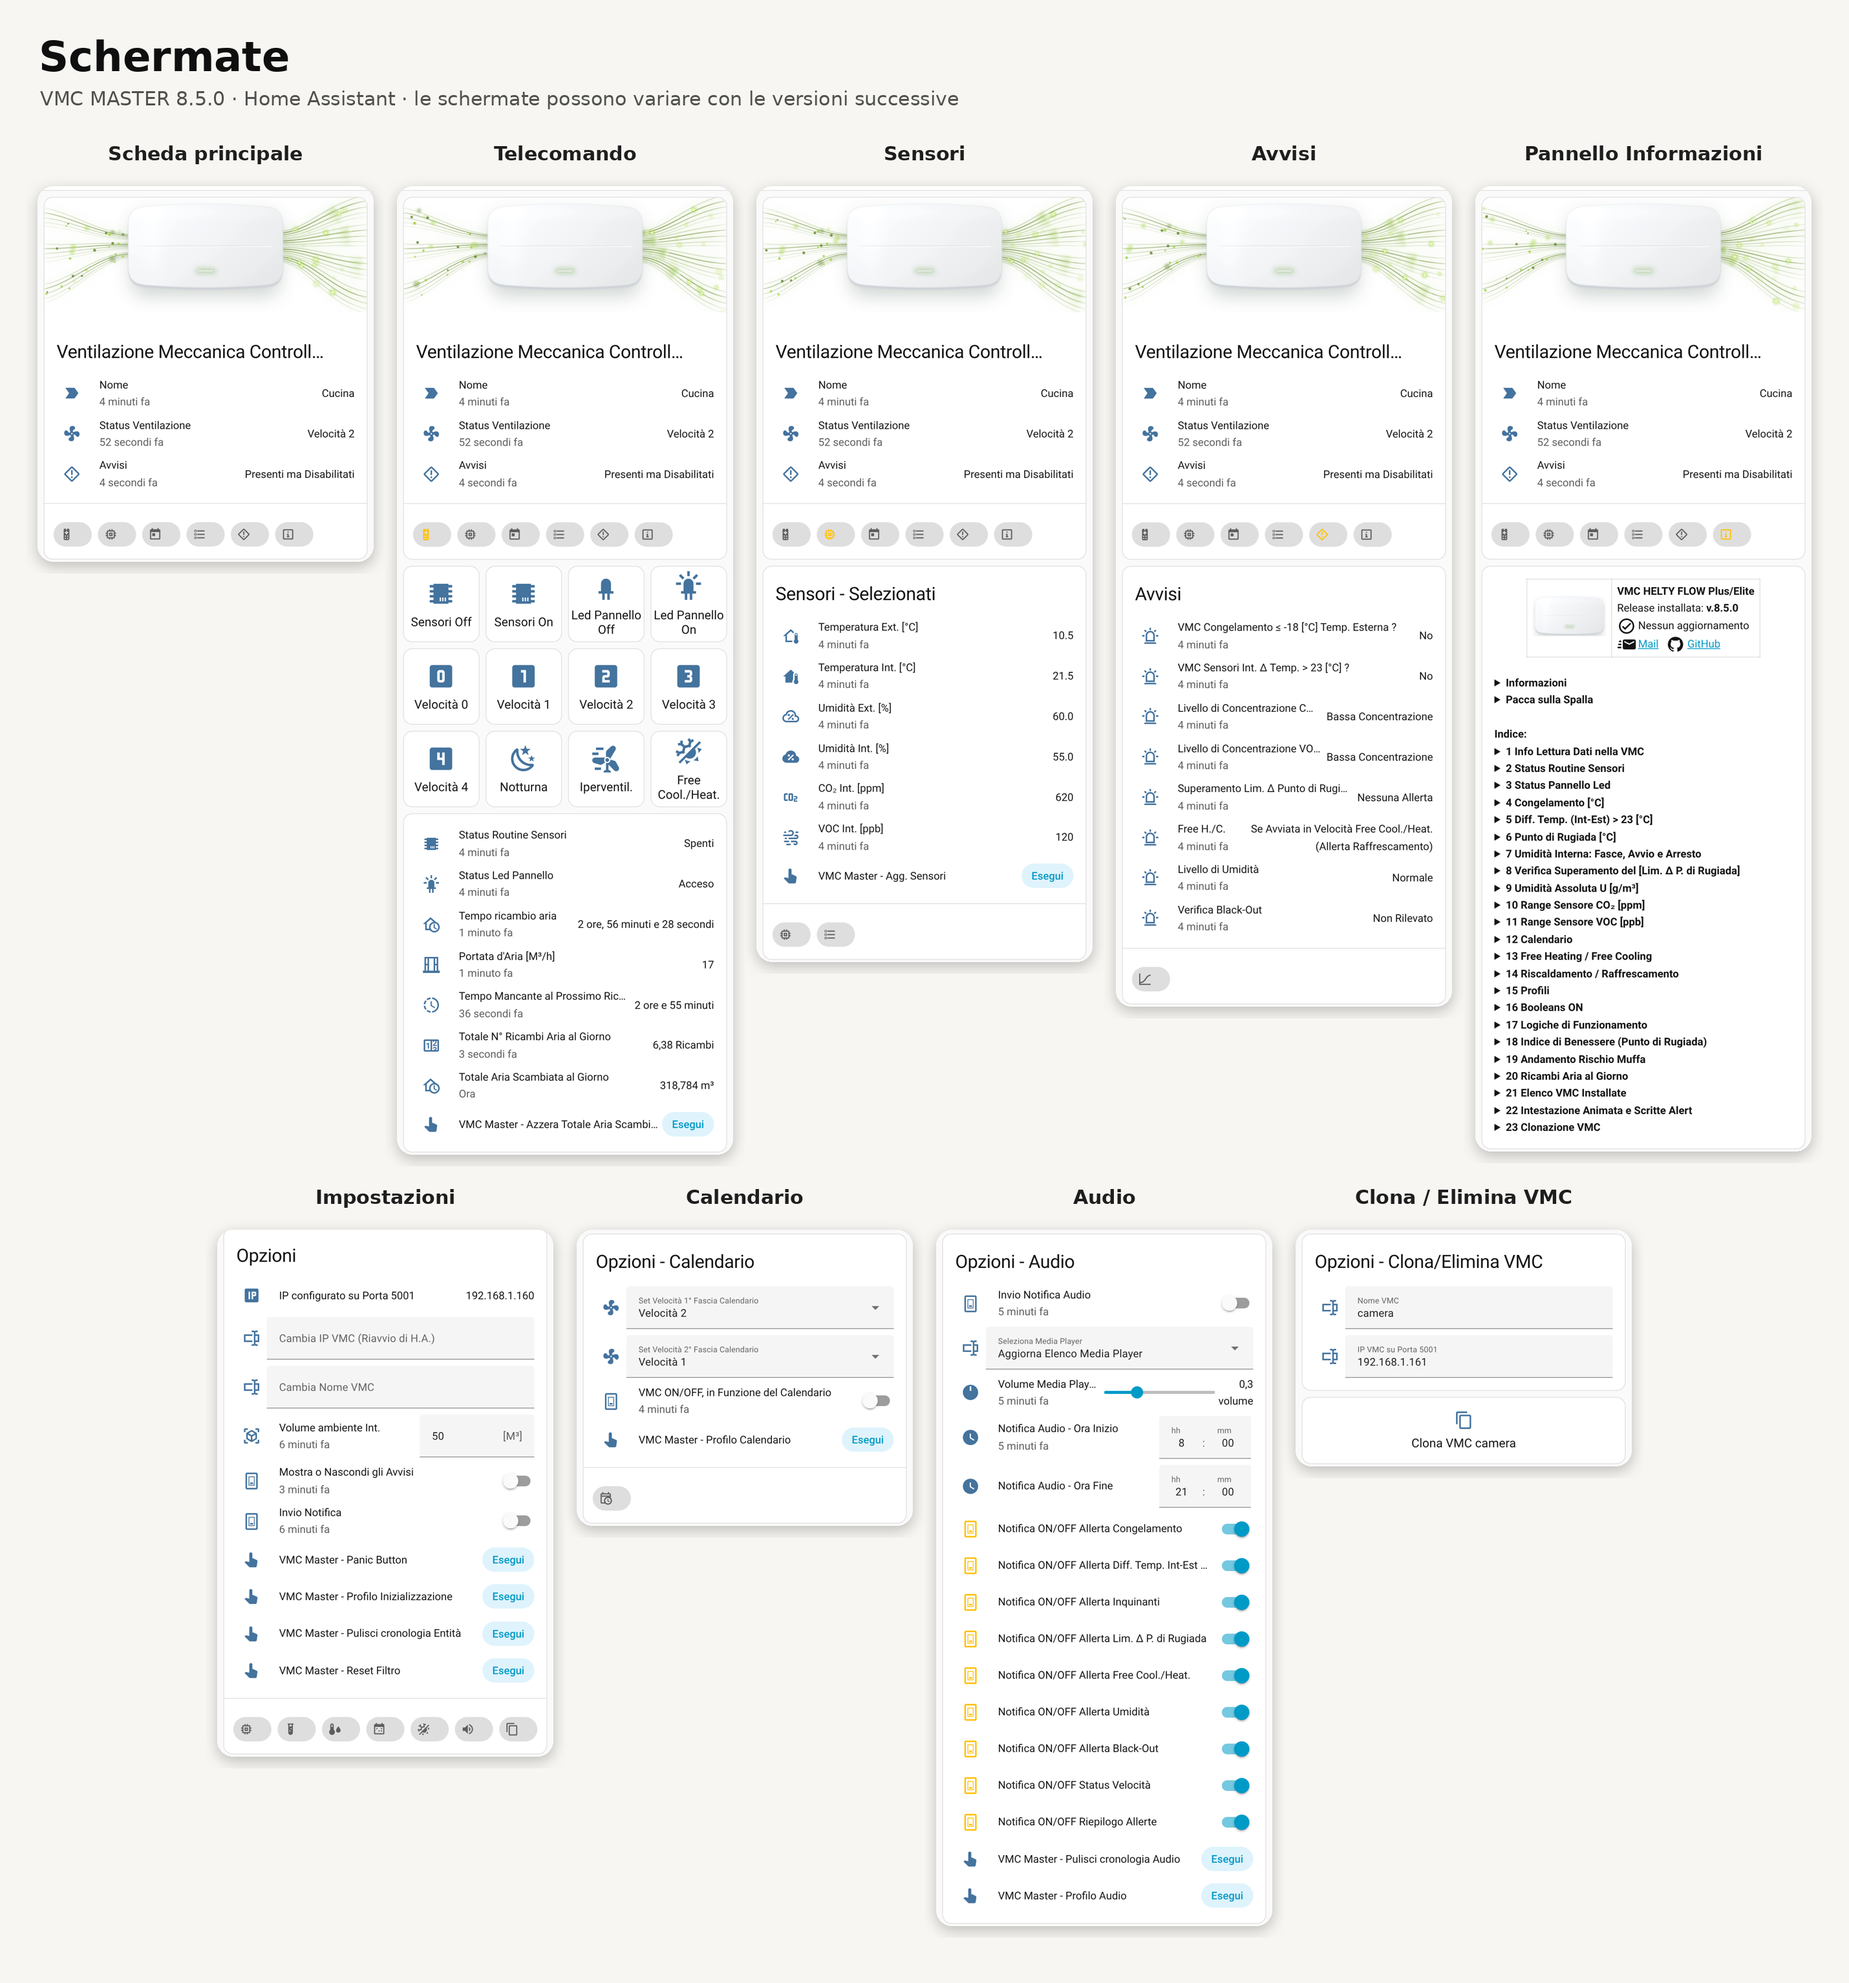
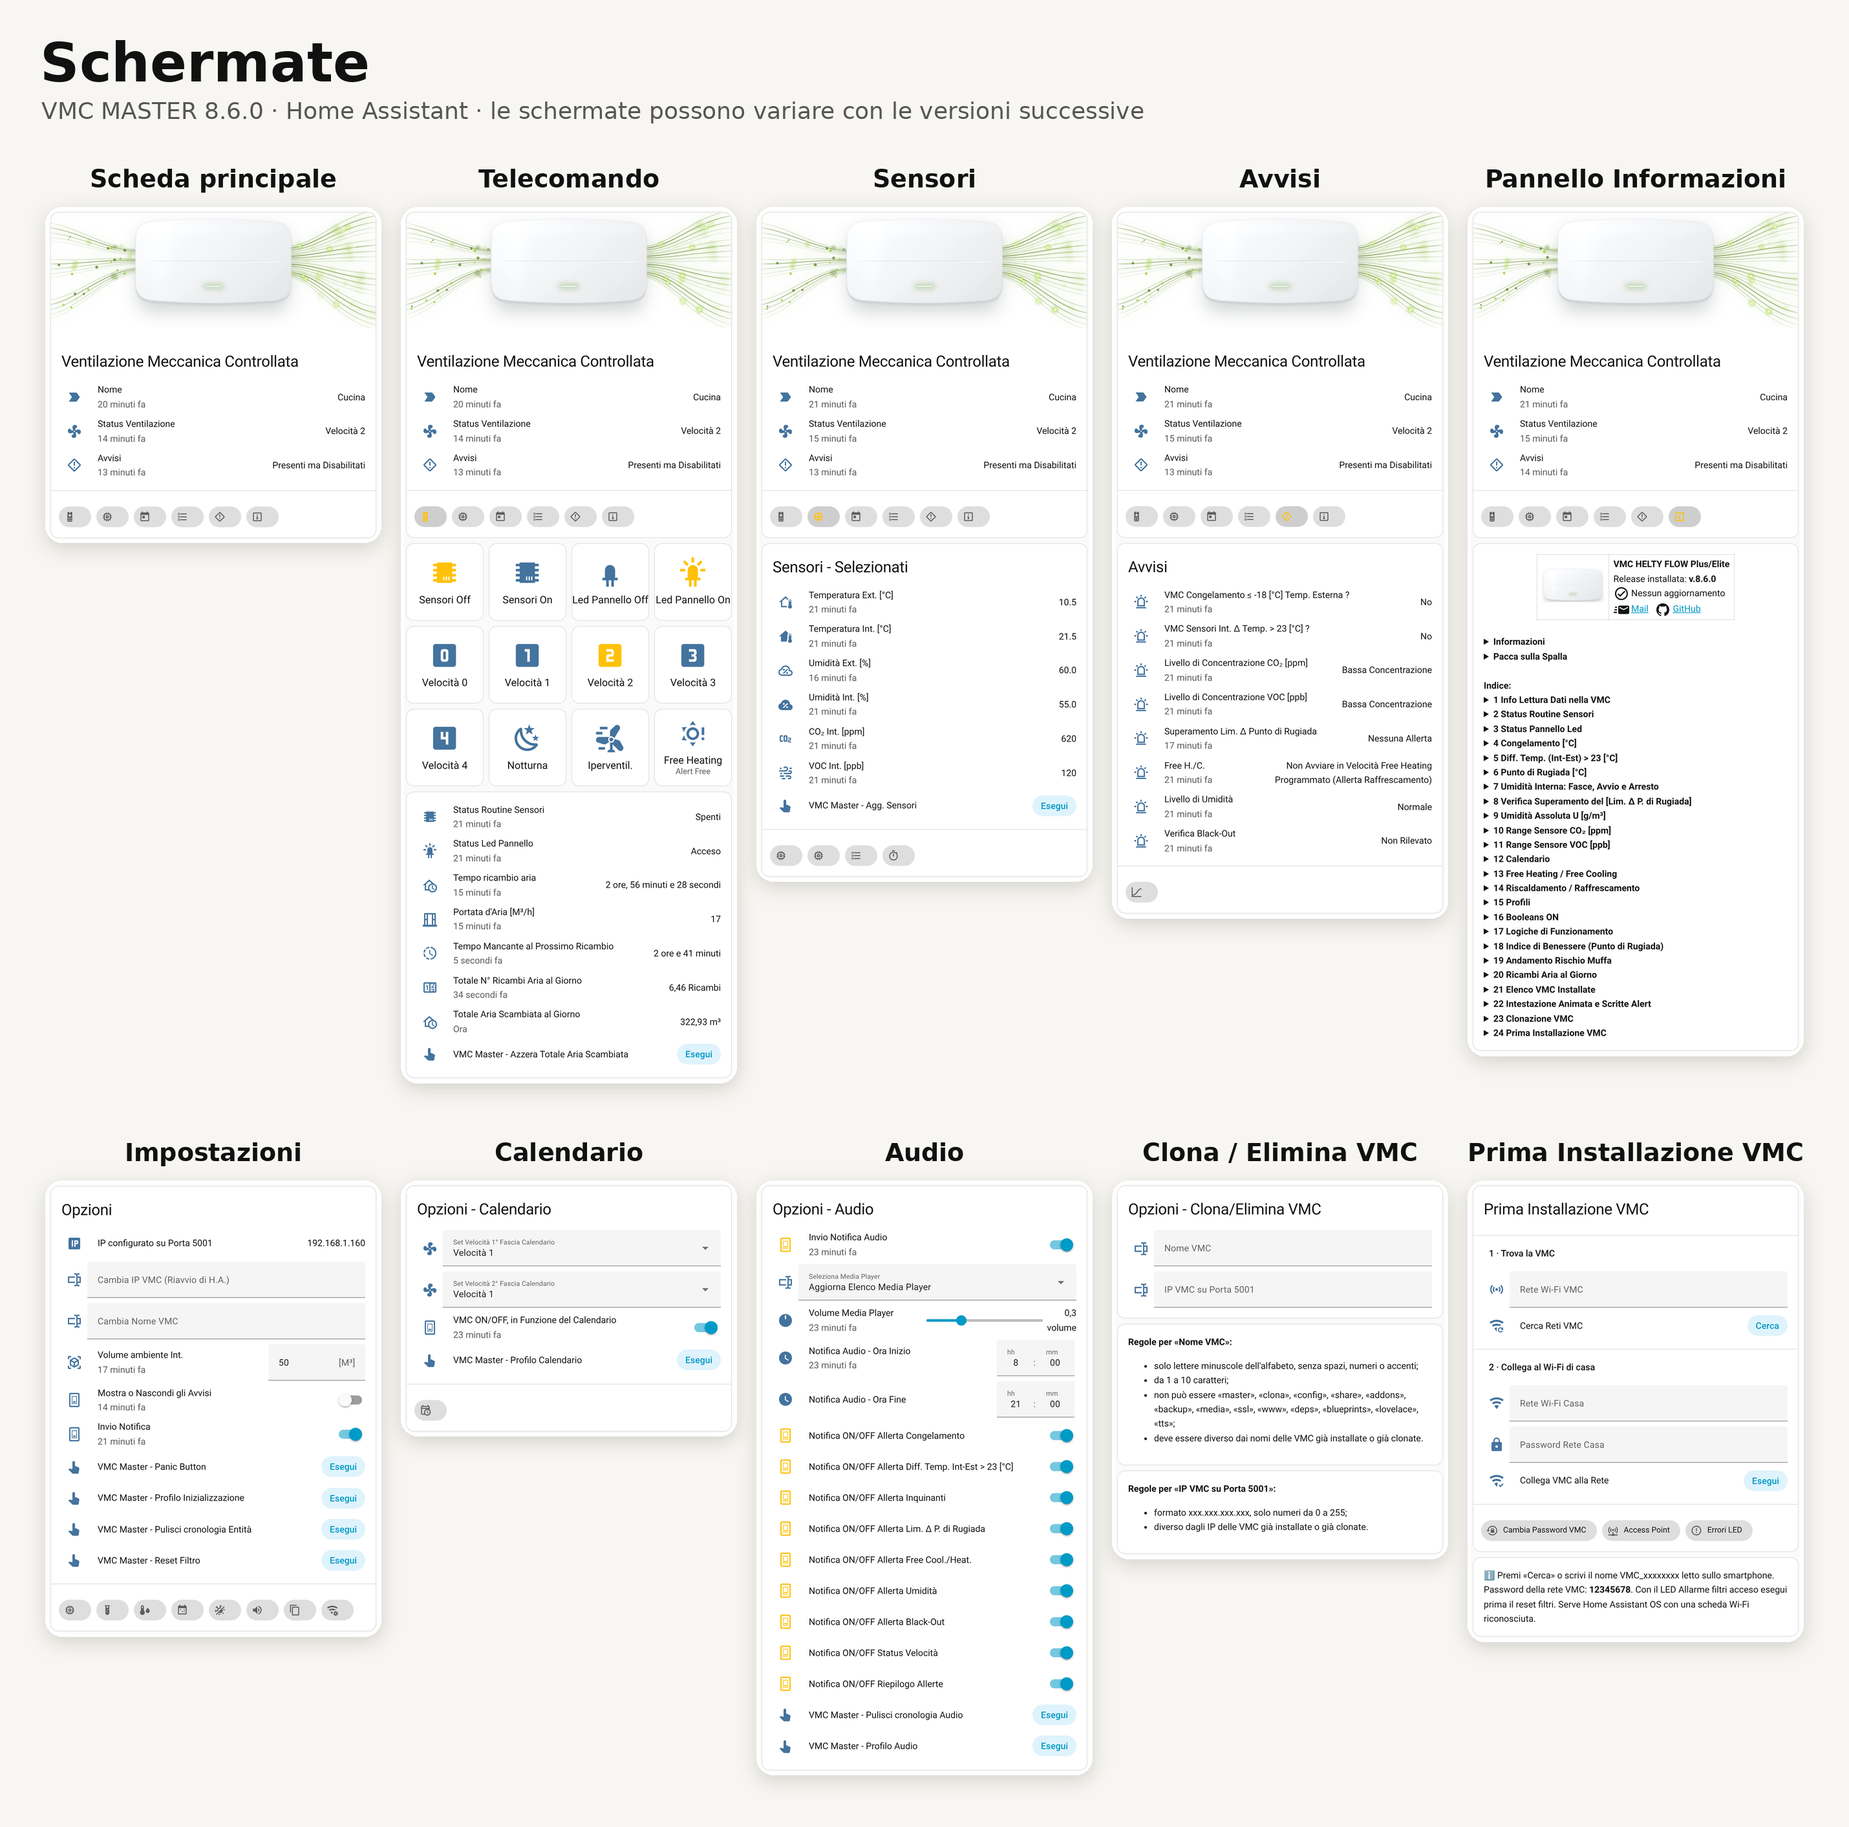
Intestazione animata del README in stile chiaro e blu, schermate IT/EN alla v.8.6.0
- immagini/Collage VMC Master.webp (nuovo, circa 1,2 MB): intestazione A
  «Classica» nello stile chiaro e blu del video, con il flusso della VMC
  animato dentro la casa e l'intestazione animata della scheda; schermate
  vere della scheda 8.6.0 (Scheda principale, Telecomando, elenco stati),
  senza bollino di versione. Il README la mostra al posto del PNG.
- immagini/Collage VMC Master.png: stesso nome, sovrascritto con la
  versione ferma della nuova intestazione (resta valido per chi lo usa).
- immagini/README/schermate_it.png e schermate_en.png: stesso nome, rifatte
  su Home Assistant 2026.2.3 con la scheda 8.6.0; 10 pannelli invece di 9,
  aggiunta la Finestra Prima Installazione VMC; didascalie IT/EN.

Claude-Session: https://claude.ai/code/session_01FYD4VDqcNmeeyVXM3kYjym

diff --git a/README.md b/README.md
@@ -1,5 +1,5 @@
 <p align="center">
-  <img src="immagini/Collage%20VMC%20Master.png" alt="VMC MASTER" width="100%">
+  <img src="immagini/Collage%20VMC%20Master.webp" alt="VMC MASTER" width="100%">
 </p>
 
 ---
